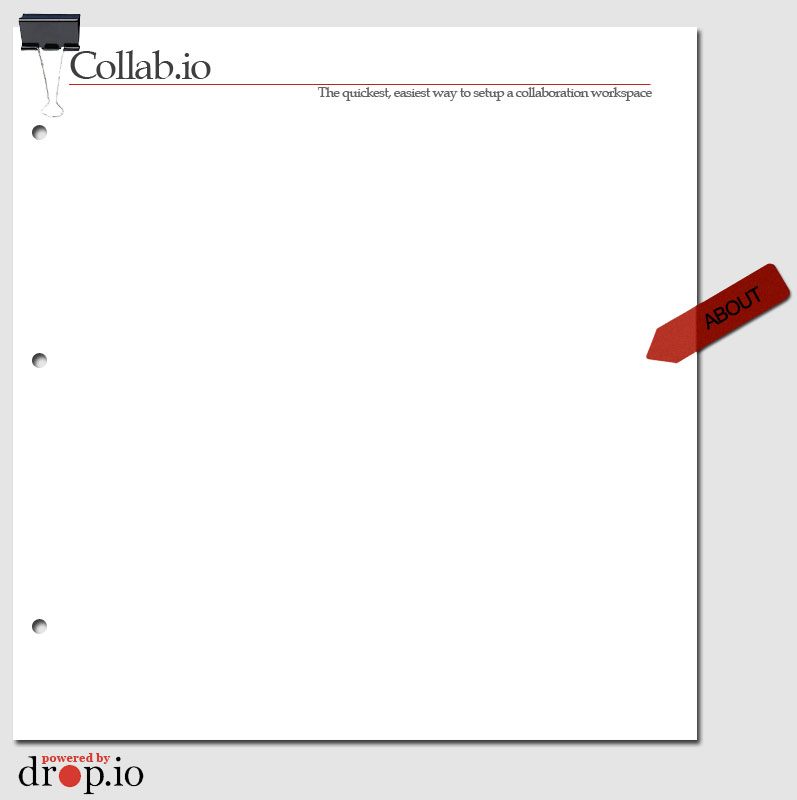
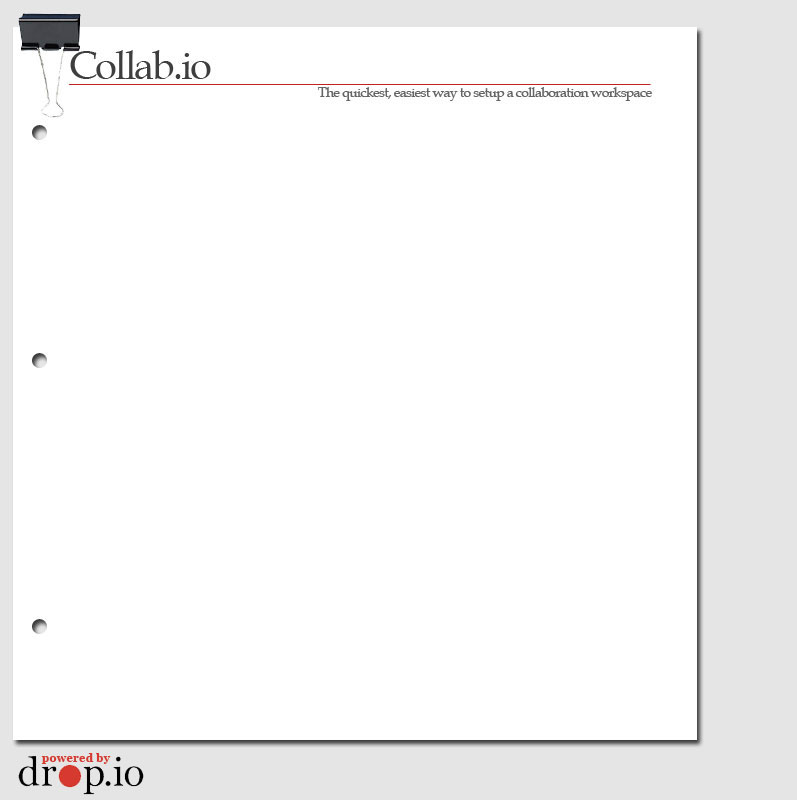
second round of front end for collabio

Changed region(s): [[0.813, 0.3125, 0.9937, 0.4688]]

diff --git a/public/stylesheets/master.css b/public/stylesheets/master.css
@@ -37,3 +37,19 @@ textarea {
 .input-div {
 	margin-bottom:30px;
 }
+
+#diggit {
+	float:right; 
+	margin-right:100px;
+}
+
+#poweredby {
+	float:left; 
+	width:130px;
+	height:40px;
+	cursor:pointer;
+}
+
+.exp {
+	color:#999;
+}
